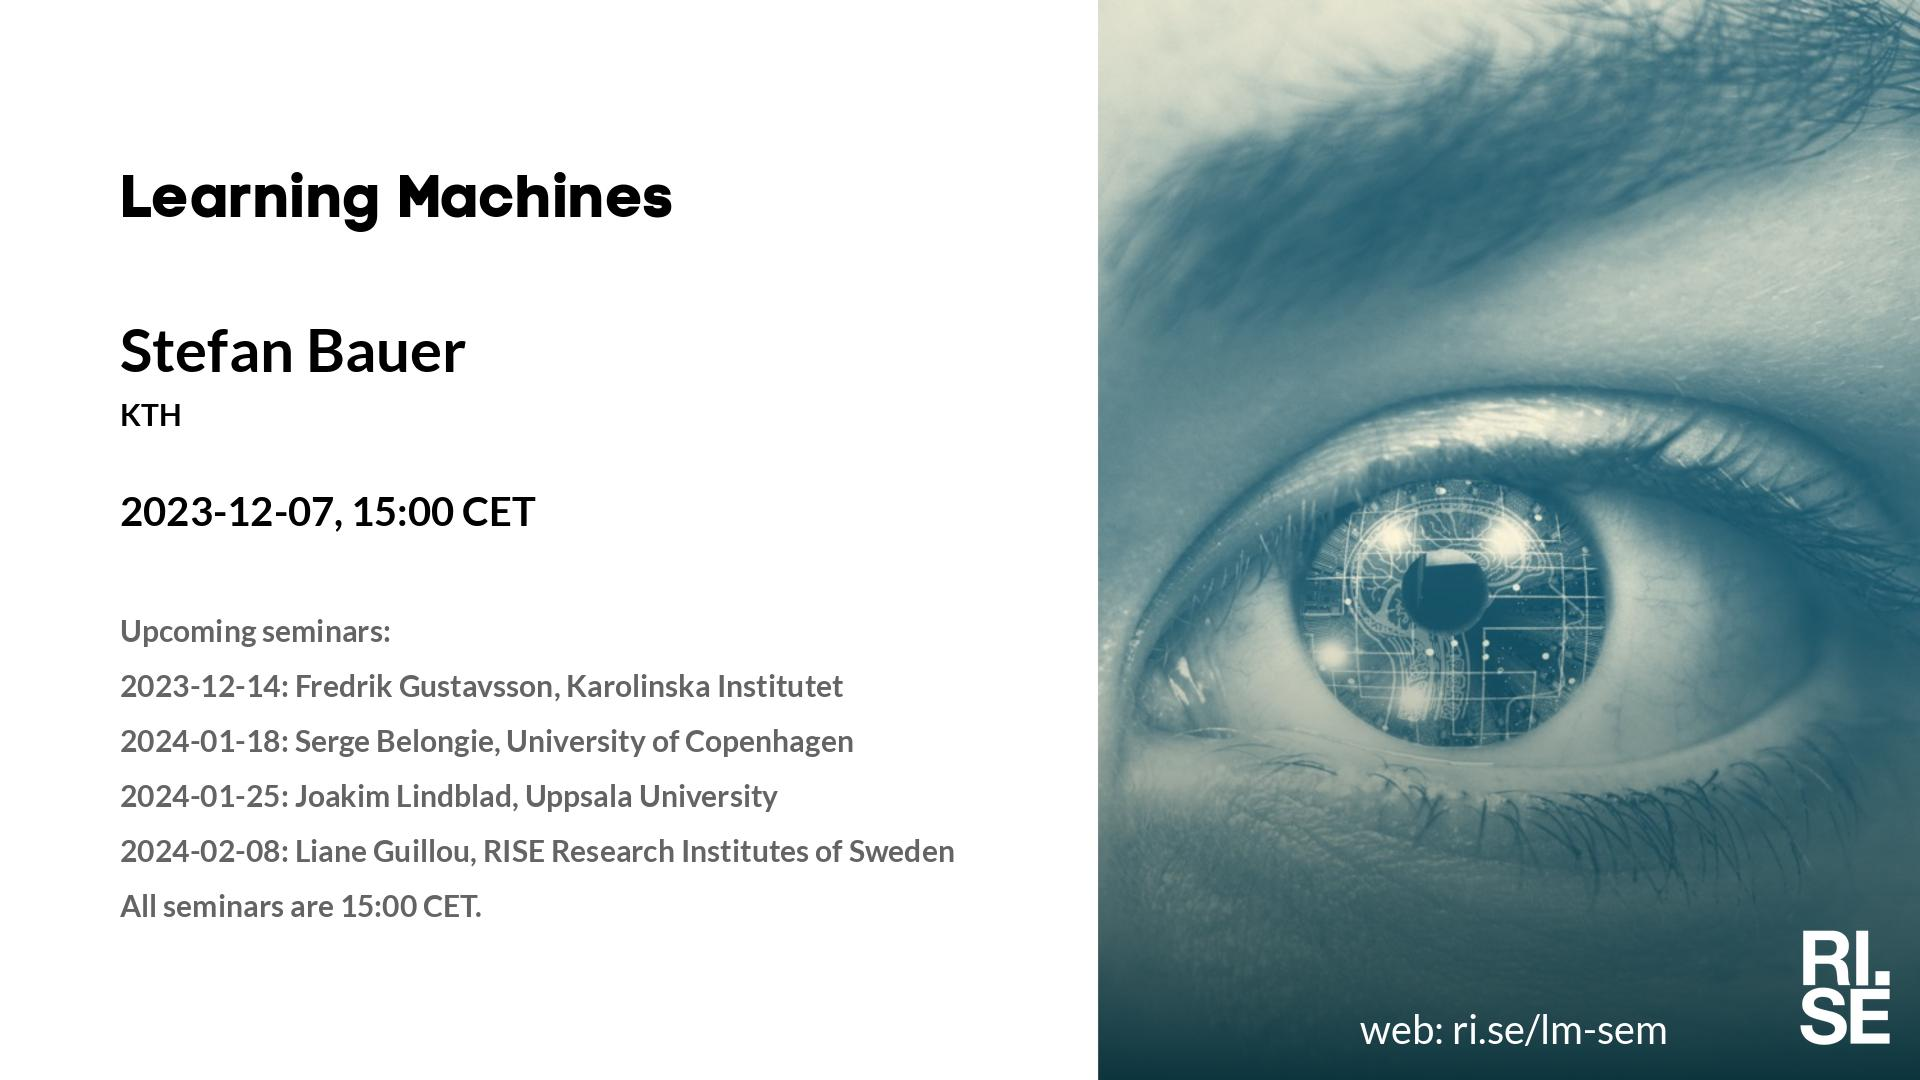
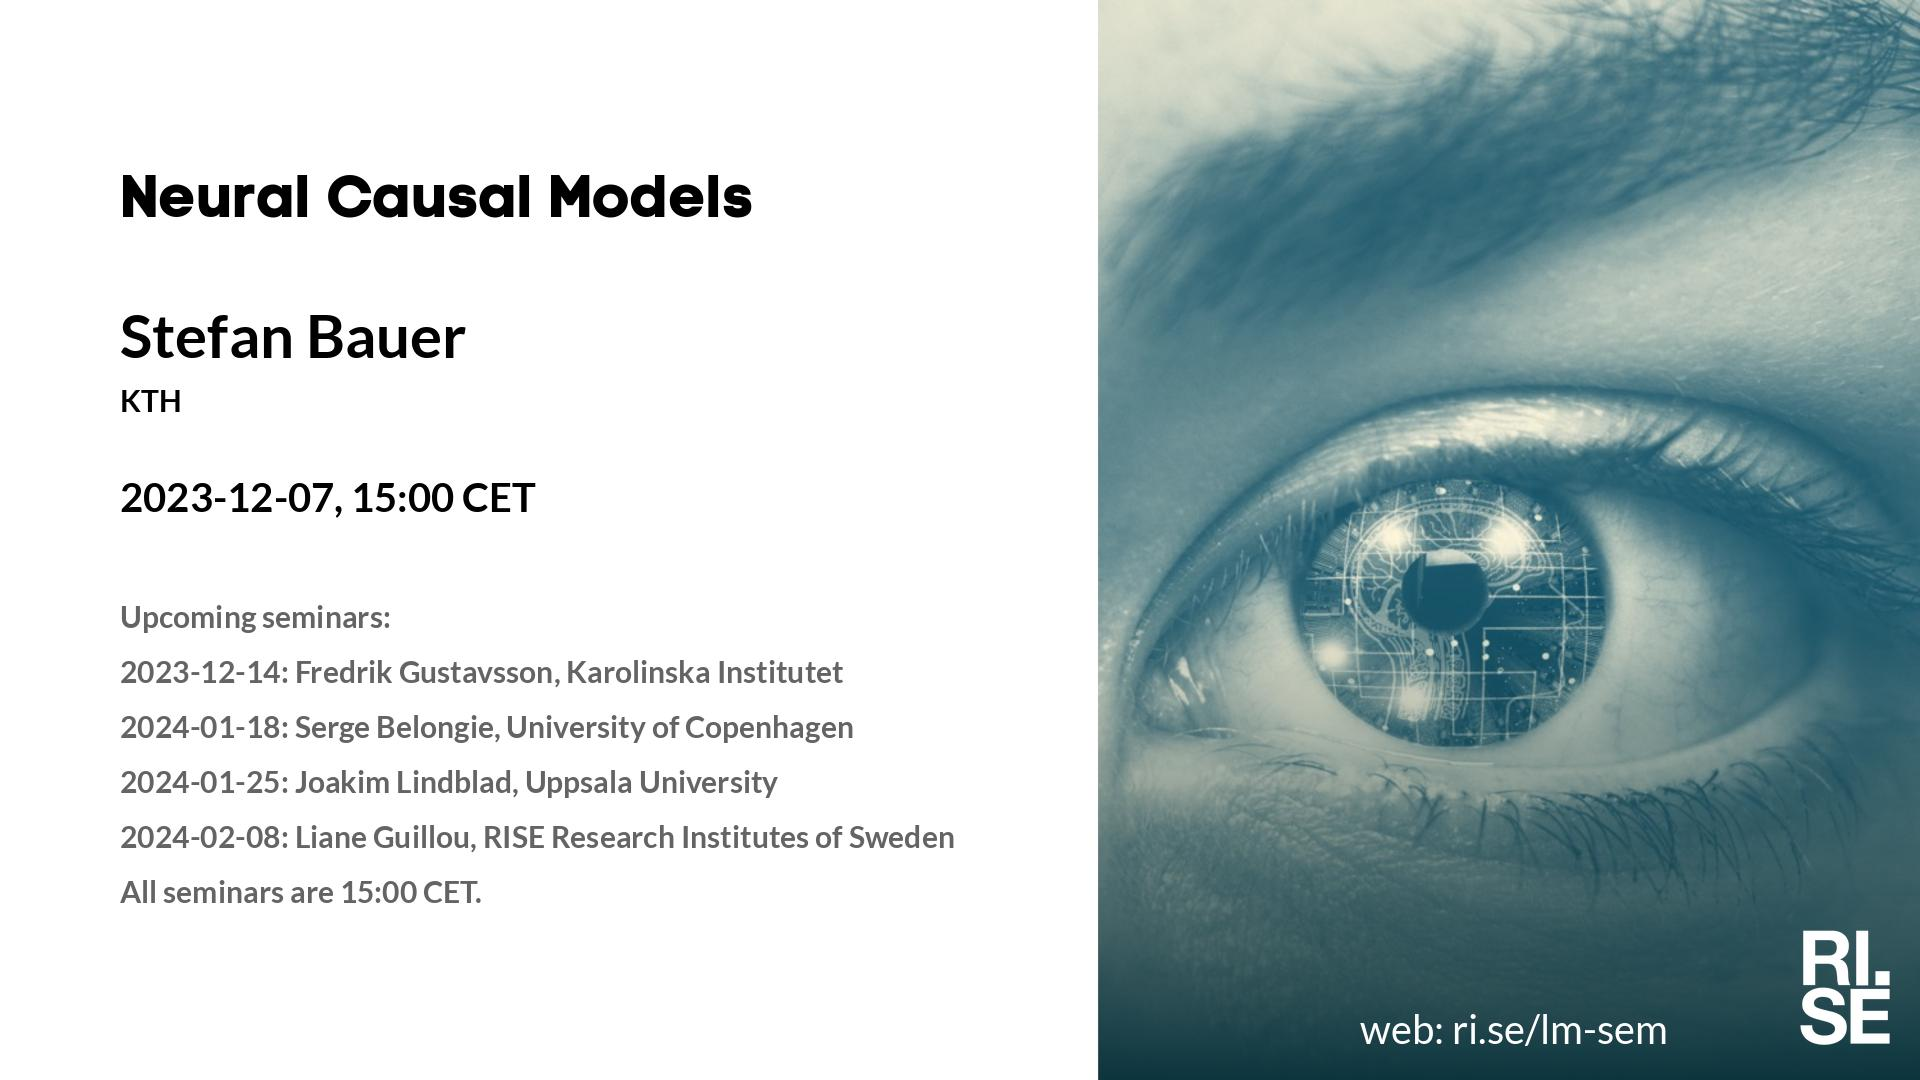
Updated plan on web site.

diff --git a/lm/index.md b/lm/index.md
@@ -5,7 +5,7 @@ metatags: "<meta name=\"robots\" content=\"noindex,nofollow\" />"
 <style type="text/css" scoped>
 td, th {border: 1px solid #ccc; padding: 0.6em;}
 table {border-collapse: collapse;}
-</style># Learning Machines Plan 2023-10-30
+</style># Learning Machines Plan 2023-10-31
 
 | date | speaker                                   | photo | shareable | meeting backdrop | youtube thumbnail | <a title="Speaker, Title, Abstract, Bio, Photo. Strikethrough means we don't have it yet.">comment</a>        |
 | ---- | ----------------------------------------- | ----- | ----- | ----- | ----- | -------------- |
@@ -17,7 +17,7 @@ table {border-collapse: collapse;}
 |  2023-11-16  |  [Jonas Hellgren, RISE](2023-11-16.md)  |  [photo](photo-jonas-hellgren.jpg)  |  [social media ](social-media-jonas-hellgren.jpg)  |  [meeting backdrop ](meeting-backdrop-jonas-hellgren.jpg)  |  [youtube thumbnail ](youtube-thumbnail-jonas-hellgren.jpg)  |  STA~~B~~P  |
 | <span style="color:red"> 2023-11-23 </span> | <span style="color:red"> Thanksgiving </span> | <span style="color:red">  </span> | <span style="color:red">  </span> | <span style="color:red">  </span> | <span style="color:red">  </span> | <span style="color:red"> CANCELLED </span> |
 |  2023-11-30  |  [Ben Weinstein, University of Florida](2023-11-30.md)  |  [photo](photo-ben-weinstein.jpg)  |  [social media ](social-media-ben-weinstein.jpg)  |  [meeting backdrop ](meeting-backdrop-ben-weinstein.jpg)  |  [youtube thumbnail ](youtube-thumbnail-ben-weinstein.jpg)  |  STABP  |
-|  2023-12-07  |  [Stefan Bauer, KTH](2023-12-07.md)  |  [photo](photo-stefan-bauer.jpg)  |  [social media ](social-media-stefan-bauer.jpg)  |  [meeting backdrop ](meeting-backdrop-stefan-bauer.jpg)  |  [youtube thumbnail ](youtube-thumbnail-stefan-bauer.jpg)  |  S~~TAB~~P  |
+|  2023-12-07  |  [Stefan Bauer, KTH](2023-12-07.md)  |  [photo](photo-stefan-bauer.jpg)  |  [social media ](social-media-stefan-bauer.jpg)  |  [meeting backdrop ](meeting-backdrop-stefan-bauer.jpg)  |  [youtube thumbnail ](youtube-thumbnail-stefan-bauer.jpg)  |  STABP  |
 |  2023-12-14  |  [Fredrik Gustavsson, Karolinska Institutet](2023-12-14.md)  |    |  [social media ](social-media-fredrik-gustavsson.jpg)  |  [meeting backdrop ](meeting-backdrop-fredrik-gustavsson.jpg)  |  [youtube thumbnail ](youtube-thumbnail-fredrik-gustavsson.jpg)  |  S~~TABP~~  |
 | <span style="color:red"> 2023-12-21 </span> | <span style="color:red"> Christmas </span> | <span style="color:red">  </span> | <span style="color:red">  </span> | <span style="color:red">  </span> | <span style="color:red">  </span> | <span style="color:red"> CANCELLED </span> |
 | <span style="color:red"> 2023-12-28 </span> | <span style="color:red"> Christmas-break </span> | <span style="color:red">  </span> | <span style="color:red">  </span> | <span style="color:red">  </span> | <span style="color:red">  </span> | <span style="color:red"> CANCELLED </span> |

diff --git a/lm/2023-12-07.md b/lm/2023-12-07.md
@@ -4,13 +4,13 @@ metatags: "<meta name=\"robots\" content=\"noindex,nofollow\" />"
 ---
 Welcome to this week's Learning Machines seminar.
 
-**Title:** N/A
+**Title:** Neural Causal Models
 
 **Speaker:** Stefan Bauer, KTH
 
-**Abstract:** N/A
+**Abstract:** Deep neural networks have achieved outstanding success in many tasks ranging from computer vision, to natural language processing, and robotics. However such models still pale in their ability to understand the world around us, as well as generalizing and adapting to new tasks or environments. One possible solution to this problem are causal models, since they can reason about the connections between causal variables and the effect of intervening on them. This talk will introduce the fundamental concepts of causal inference, connections and synergies with deep learning as well as practical applications and advances in sustainability and AI for science.
 
-**About the speaker:** N/A
+**About the speaker:** Stefan Bauer is an Associate Professor at TU Munich and a Senior PI at Helmholtz AI. Prior to his appointment in Munich, he was an Assistant Professor at KTH Stockholm and a Group Leader at the Max Planck Institute for Intelligent Systems in Tübingen. Stefan Bauer obtained his Ph.D. in Computer Science from ETH Zurich, for which he was honored with the ETH Medal for an outstanding dissertation. He previously studied Mathematics at ETH Zurich and Economics and Finance at the University of London. As an organizer of competitions for the application and development of AI, such as drug discovery or the real-robot-challenge.com, he advocates for the democratization and transparency of machine learning research.
 
 **Location:** This is an online seminar. Connect using Zoom.
 
